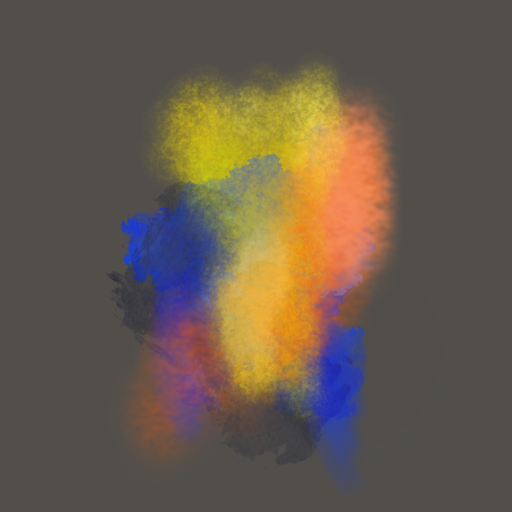
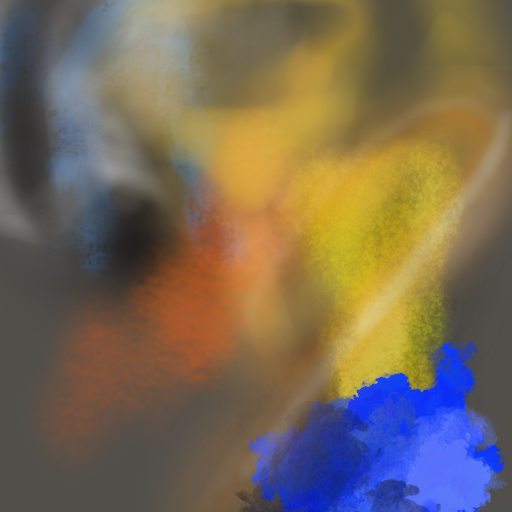
Randomize overlay image position

diff --git a/Program.cs b/Program.cs
@@ -56,7 +56,8 @@ internal class Program
                 Image imageToBlend = Image.Load(Path.Combine(Directory.GetCurrentDirectory(), "images", $"{number}.png"));
                 var random = new Random();
                 float opacityIndex = random.NextSingle();
-                Image outputImage = img.Clone(x => x.DrawImage(imageToBlend, opacityIndex));
+                Point location = new Point(random.Next(-256, 256), random.Next(-256, 256)); 
+                Image outputImage = img.Clone(x => x.DrawImage(imageToBlend, location, opacityIndex));
                 img = outputImage;
             }
 
